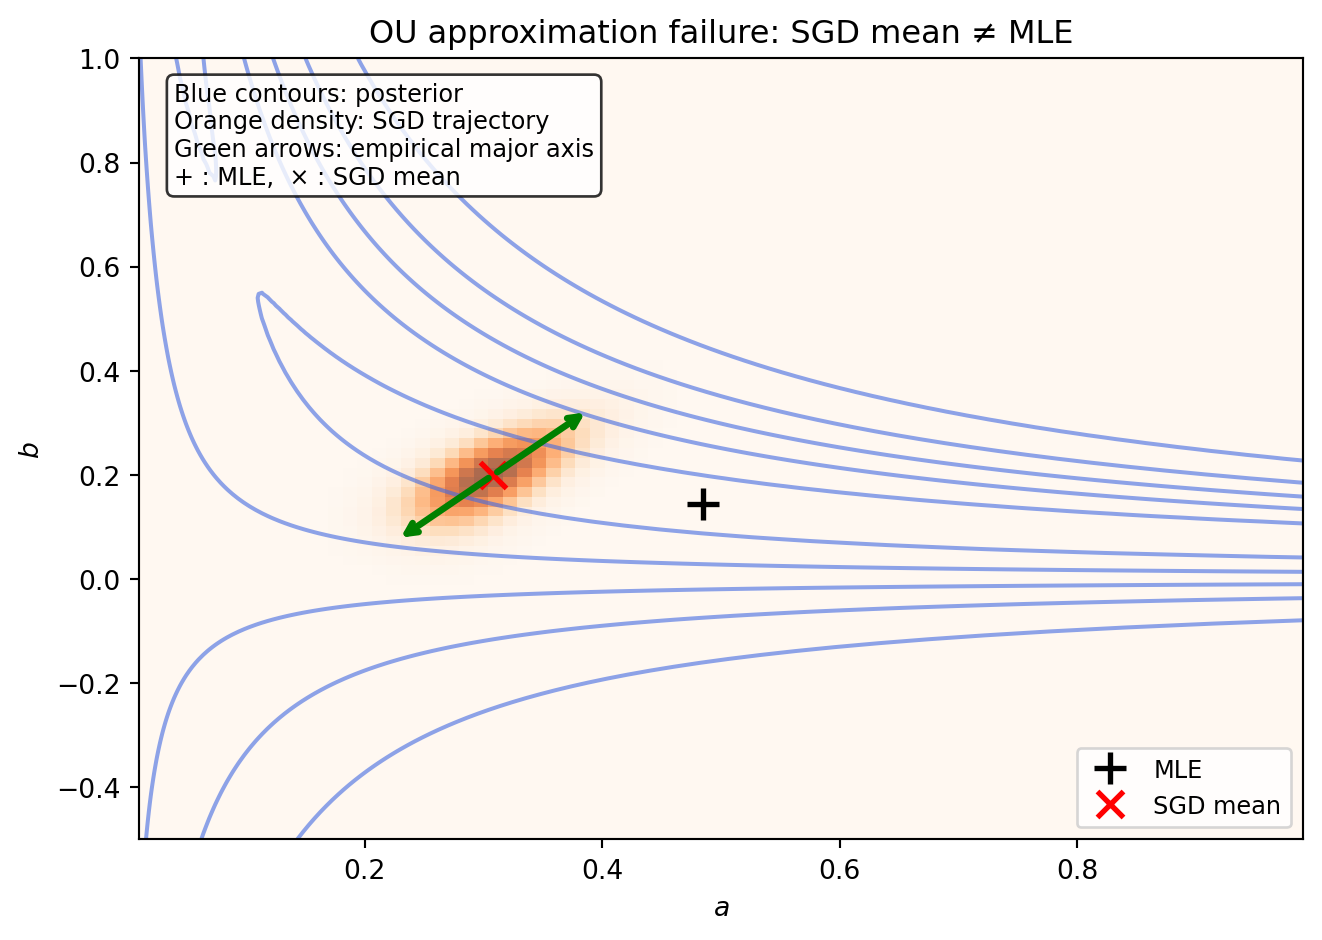
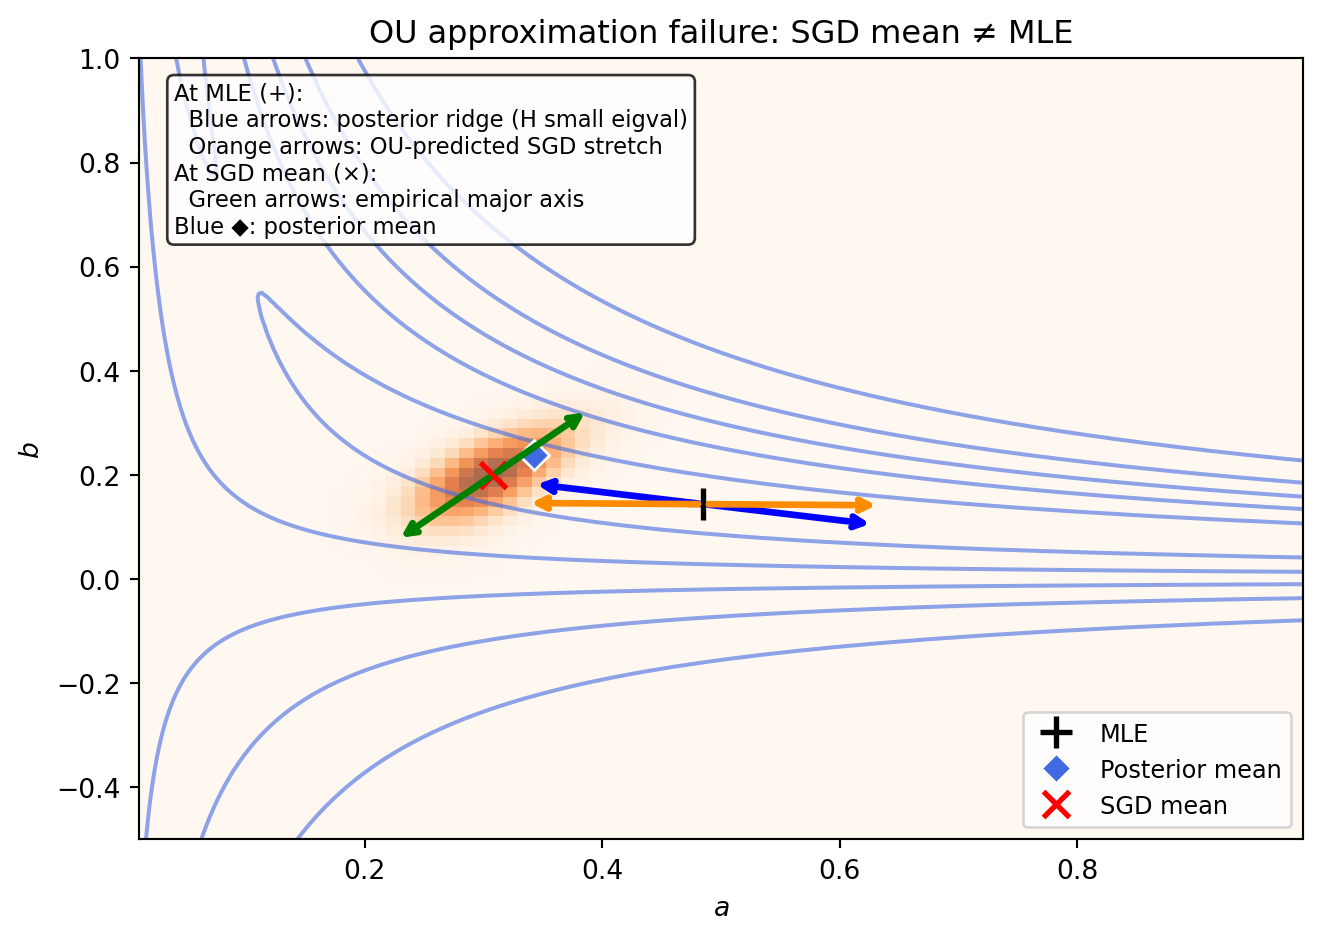
Built site for gh-pages

Changed region(s): [[0.1241, 0.0617, 0.5272, 0.2777], [0.7753, 0.7404, 0.9924, 0.8947], [0.3722, 0.4628, 0.6823, 0.5862]]

diff --git a/sgd_and_posterior.html b/sgd_and_posterior.html
@@ -7,7 +7,7 @@
 <meta name="viewport" content="width=device-width, initial-scale=1.0, user-scalable=yes">
 
 
-<title>SGD as Approximate Bayesian Inference – Watanabe’s Singular Learning Theory</title>
+<title>Stochastic Gradient Descent Distribution versus Posterior – Watanabe’s Singular Learning Theory</title>
 <style>
 code{white-space: pre-wrap;}
 span.smallcaps{font-variant: small-caps;}
@@ -164,7 +164,7 @@ window.Quarto = {
   </li>  
   <li class="nav-item">
     <a class="nav-link" href="./regular_and_singular_models.html"> 
-<span class="menu-text">Regular and Singular Models</span></a>
+<span class="menu-text">Regular vs Singular</span></a>
   </li>  
   <li class="nav-item">
     <a class="nav-link" href="./slt_gaussian_mixture.html"> 
@@ -172,11 +172,11 @@ window.Quarto = {
   </li>  
   <li class="nav-item">
     <a class="nav-link active" href="./sgd_and_posterior.html" aria-current="page"> 
-<span class="menu-text">SGD as Bayesian Inference</span></a>
+<span class="menu-text">SGD vs Posterior</span></a>
   </li>  
   <li class="nav-item">
     <a class="nav-link" href="./neural_network_figure_2_7.html"> 
-<span class="menu-text">Neural Network (Figure 2.7)</span></a>
+<span class="menu-text">Neural Network</span></a>
   </li>  
 </ul>
           </div> <!-- /navcollapse -->
@@ -223,7 +223,7 @@ window.Quarto = {
 
 <header id="title-block-header" class="quarto-title-block default">
 <div class="quarto-title">
-<h1 class="title">SGD as Approximate Bayesian Inference</h1>
+<h1 class="title">Stochastic Gradient Descent Distribution versus Posterior</h1>
 </div>
 
 
@@ -700,35 +700,61 @@ Figure&nbsp;2: SGD trajectory distribution (orange density) vs exact Bayesian po
 <span id="cb7-85"><a href="#cb7-85" aria-hidden="true" tabindex="-1"></a>ax.imshow(hist, origin<span class="op">=</span><span class="st">'lower'</span>, extent<span class="op">=</span>[<span class="fl">0.01</span>, <span class="fl">0.99</span>, <span class="op">-</span><span class="fl">0.5</span>, <span class="fl">1.0</span>],</span>
 <span id="cb7-86"><a href="#cb7-86" aria-hidden="true" tabindex="-1"></a>          aspect<span class="op">=</span><span class="st">'auto'</span>, cmap<span class="op">=</span><span class="st">'Oranges'</span>, alpha<span class="op">=</span><span class="fl">0.7</span>)</span>
 <span id="cb7-87"><a href="#cb7-87" aria-hidden="true" tabindex="-1"></a></span>
-<span id="cb7-88"><a href="#cb7-88" aria-hidden="true" tabindex="-1"></a><span class="co"># Mark MLE and SGD mean</span></span>
-<span id="cb7-89"><a href="#cb7-89" aria-hidden="true" tabindex="-1"></a>ax.plot(a_mle, b_mle, <span class="st">'k+'</span>, markersize<span class="op">=</span><span class="dv">12</span>, markeredgewidth<span class="op">=</span><span class="dv">2</span>, label<span class="op">=</span><span class="st">'MLE'</span>)</span>
-<span id="cb7-90"><a href="#cb7-90" aria-hidden="true" tabindex="-1"></a>ax.plot(sgd_mean[<span class="dv">0</span>], sgd_mean[<span class="dv">1</span>], <span class="st">'rx'</span>, markersize<span class="op">=</span><span class="dv">10</span>, markeredgewidth<span class="op">=</span><span class="dv">2</span>,</span>
-<span id="cb7-91"><a href="#cb7-91" aria-hidden="true" tabindex="-1"></a>        label<span class="op">=</span><span class="st">'SGD mean'</span>)</span>
-<span id="cb7-92"><a href="#cb7-92" aria-hidden="true" tabindex="-1"></a></span>
-<span id="cb7-93"><a href="#cb7-93" aria-hidden="true" tabindex="-1"></a><span class="co"># Draw eigenvector arrows from the SGD mean</span></span>
-<span id="cb7-94"><a href="#cb7-94" aria-hidden="true" tabindex="-1"></a>scale <span class="op">=</span> <span class="fl">0.15</span></span>
-<span id="cb7-95"><a href="#cb7-95" aria-hidden="true" tabindex="-1"></a><span class="co"># Empirical major axis</span></span>
-<span id="cb7-96"><a href="#cb7-96" aria-hidden="true" tabindex="-1"></a>v <span class="op">=</span> evecs_emp[:, <span class="dv">1</span>]</span>
-<span id="cb7-97"><a href="#cb7-97" aria-hidden="true" tabindex="-1"></a>ax.annotate(<span class="st">''</span>, xy<span class="op">=</span>(sgd_mean[<span class="dv">0</span>]<span class="op">+</span>scale<span class="op">*</span>v[<span class="dv">0</span>], sgd_mean[<span class="dv">1</span>]<span class="op">+</span>scale<span class="op">*</span>v[<span class="dv">1</span>]),</span>
-<span id="cb7-98"><a href="#cb7-98" aria-hidden="true" tabindex="-1"></a>            xytext<span class="op">=</span>(sgd_mean[<span class="dv">0</span>], sgd_mean[<span class="dv">1</span>]),</span>
-<span id="cb7-99"><a href="#cb7-99" aria-hidden="true" tabindex="-1"></a>            arrowprops<span class="op">=</span><span class="bu">dict</span>(arrowstyle<span class="op">=</span><span class="st">'-&gt;'</span>, color<span class="op">=</span><span class="st">'green'</span>, lw<span class="op">=</span><span class="fl">2.5</span>))</span>
-<span id="cb7-100"><a href="#cb7-100" aria-hidden="true" tabindex="-1"></a>ax.annotate(<span class="st">''</span>, xy<span class="op">=</span>(sgd_mean[<span class="dv">0</span>]<span class="op">-</span>scale<span class="op">*</span>v[<span class="dv">0</span>], sgd_mean[<span class="dv">1</span>]<span class="op">-</span>scale<span class="op">*</span>v[<span class="dv">1</span>]),</span>
-<span id="cb7-101"><a href="#cb7-101" aria-hidden="true" tabindex="-1"></a>            xytext<span class="op">=</span>(sgd_mean[<span class="dv">0</span>], sgd_mean[<span class="dv">1</span>]),</span>
-<span id="cb7-102"><a href="#cb7-102" aria-hidden="true" tabindex="-1"></a>            arrowprops<span class="op">=</span><span class="bu">dict</span>(arrowstyle<span class="op">=</span><span class="st">'-&gt;'</span>, color<span class="op">=</span><span class="st">'green'</span>, lw<span class="op">=</span><span class="fl">2.5</span>))</span>
-<span id="cb7-103"><a href="#cb7-103" aria-hidden="true" tabindex="-1"></a></span>
-<span id="cb7-104"><a href="#cb7-104" aria-hidden="true" tabindex="-1"></a>ax.text(<span class="fl">0.03</span>, <span class="fl">0.97</span>, <span class="st">'Blue contours: posterior</span><span class="ch">\n</span><span class="st">'</span></span>
-<span id="cb7-105"><a href="#cb7-105" aria-hidden="true" tabindex="-1"></a>        <span class="st">'Orange density: SGD trajectory</span><span class="ch">\n</span><span class="st">'</span></span>
-<span id="cb7-106"><a href="#cb7-106" aria-hidden="true" tabindex="-1"></a>        <span class="st">'Green arrows: empirical major axis</span><span class="ch">\n</span><span class="st">'</span></span>
-<span id="cb7-107"><a href="#cb7-107" aria-hidden="true" tabindex="-1"></a>        <span class="st">'+ : MLE,  × : SGD mean'</span>,</span>
-<span id="cb7-108"><a href="#cb7-108" aria-hidden="true" tabindex="-1"></a>        transform<span class="op">=</span>ax.transAxes, fontsize<span class="op">=</span><span class="dv">9</span>, va<span class="op">=</span><span class="st">'top'</span>,</span>
-<span id="cb7-109"><a href="#cb7-109" aria-hidden="true" tabindex="-1"></a>        bbox<span class="op">=</span><span class="bu">dict</span>(boxstyle<span class="op">=</span><span class="st">'round'</span>, facecolor<span class="op">=</span><span class="st">'white'</span>, alpha<span class="op">=</span><span class="fl">0.8</span>))</span>
-<span id="cb7-110"><a href="#cb7-110" aria-hidden="true" tabindex="-1"></a></span>
-<span id="cb7-111"><a href="#cb7-111" aria-hidden="true" tabindex="-1"></a>ax.legend(loc<span class="op">=</span><span class="st">'lower right'</span>, fontsize<span class="op">=</span><span class="dv">9</span>)</span>
-<span id="cb7-112"><a href="#cb7-112" aria-hidden="true" tabindex="-1"></a>ax.set_xlabel(<span class="st">'$a$'</span>)</span>
-<span id="cb7-113"><a href="#cb7-113" aria-hidden="true" tabindex="-1"></a>ax.set_ylabel(<span class="st">'$b$'</span>)</span>
-<span id="cb7-114"><a href="#cb7-114" aria-hidden="true" tabindex="-1"></a>ax.set_title(<span class="st">'OU approximation failure: SGD mean ≠ MLE'</span>)</span>
-<span id="cb7-115"><a href="#cb7-115" aria-hidden="true" tabindex="-1"></a>plt.tight_layout()</span>
-<span id="cb7-116"><a href="#cb7-116" aria-hidden="true" tabindex="-1"></a>plt.show()</span></code></pre></div><button title="Copy to Clipboard" class="code-copy-button"><i class="bi"></i></button></div>
+<span id="cb7-88"><a href="#cb7-88" aria-hidden="true" tabindex="-1"></a><span class="co"># Posterior mean from grid</span></span>
+<span id="cb7-89"><a href="#cb7-89" aria-hidden="true" tabindex="-1"></a>da2 <span class="op">=</span> a_grid2[<span class="dv">1</span>] <span class="op">-</span> a_grid2[<span class="dv">0</span>]</span>
+<span id="cb7-90"><a href="#cb7-90" aria-hidden="true" tabindex="-1"></a>db2 <span class="op">=</span> b_grid2[<span class="dv">1</span>] <span class="op">-</span> b_grid2[<span class="dv">0</span>]</span>
+<span id="cb7-91"><a href="#cb7-91" aria-hidden="true" tabindex="-1"></a>norm <span class="op">=</span> np.<span class="bu">sum</span>(posterior2) <span class="op">*</span> da2 <span class="op">*</span> db2</span>
+<span id="cb7-92"><a href="#cb7-92" aria-hidden="true" tabindex="-1"></a>post_mean_a <span class="op">=</span> np.<span class="bu">sum</span>(A_grid2 <span class="op">*</span> posterior2) <span class="op">*</span> da2 <span class="op">*</span> db2 <span class="op">/</span> norm</span>
+<span id="cb7-93"><a href="#cb7-93" aria-hidden="true" tabindex="-1"></a>post_mean_b <span class="op">=</span> np.<span class="bu">sum</span>(B_grid2 <span class="op">*</span> posterior2) <span class="op">*</span> da2 <span class="op">*</span> db2 <span class="op">/</span> norm</span>
+<span id="cb7-94"><a href="#cb7-94" aria-hidden="true" tabindex="-1"></a><span class="bu">print</span>(<span class="ss">f"</span><span class="ch">\n</span><span class="ss">Posterior mean: a = </span><span class="sc">{</span>post_mean_a<span class="sc">:.4f}</span><span class="ss">,  b = </span><span class="sc">{</span>post_mean_b<span class="sc">:.4f}</span><span class="ss">"</span>)</span>
+<span id="cb7-95"><a href="#cb7-95" aria-hidden="true" tabindex="-1"></a></span>
+<span id="cb7-96"><a href="#cb7-96" aria-hidden="true" tabindex="-1"></a><span class="co"># Mark MLE, posterior mean, and SGD mean</span></span>
+<span id="cb7-97"><a href="#cb7-97" aria-hidden="true" tabindex="-1"></a>ax.plot(a_mle, b_mle, <span class="st">'k+'</span>, markersize<span class="op">=</span><span class="dv">12</span>, markeredgewidth<span class="op">=</span><span class="dv">2</span>, label<span class="op">=</span><span class="st">'MLE'</span>)</span>
+<span id="cb7-98"><a href="#cb7-98" aria-hidden="true" tabindex="-1"></a>ax.plot(post_mean_a, post_mean_b, <span class="st">'D'</span>, color<span class="op">=</span><span class="st">'royalblue'</span>, markersize<span class="op">=</span><span class="dv">8</span>,</span>
+<span id="cb7-99"><a href="#cb7-99" aria-hidden="true" tabindex="-1"></a>        markeredgecolor<span class="op">=</span><span class="st">'white'</span>, markeredgewidth<span class="op">=</span><span class="dv">1</span>, label<span class="op">=</span><span class="st">'Posterior mean'</span>)</span>
+<span id="cb7-100"><a href="#cb7-100" aria-hidden="true" tabindex="-1"></a>ax.plot(sgd_mean[<span class="dv">0</span>], sgd_mean[<span class="dv">1</span>], <span class="st">'rx'</span>, markersize<span class="op">=</span><span class="dv">10</span>, markeredgewidth<span class="op">=</span><span class="dv">2</span>,</span>
+<span id="cb7-101"><a href="#cb7-101" aria-hidden="true" tabindex="-1"></a>        label<span class="op">=</span><span class="st">'SGD mean'</span>)</span>
+<span id="cb7-102"><a href="#cb7-102" aria-hidden="true" tabindex="-1"></a></span>
+<span id="cb7-103"><a href="#cb7-103" aria-hidden="true" tabindex="-1"></a><span class="co"># Draw eigenvector arrows</span></span>
+<span id="cb7-104"><a href="#cb7-104" aria-hidden="true" tabindex="-1"></a>scale <span class="op">=</span> <span class="fl">0.15</span></span>
+<span id="cb7-105"><a href="#cb7-105" aria-hidden="true" tabindex="-1"></a></span>
+<span id="cb7-106"><a href="#cb7-106" aria-hidden="true" tabindex="-1"></a><span class="co"># At MLE: H small-eigenvalue direction (posterior ridge) in blue</span></span>
+<span id="cb7-107"><a href="#cb7-107" aria-hidden="true" tabindex="-1"></a>evals_Hm, evecs_Hm <span class="op">=</span> np.linalg.eigh(H_mle)</span>
+<span id="cb7-108"><a href="#cb7-108" aria-hidden="true" tabindex="-1"></a>v_post <span class="op">=</span> evecs_Hm[:, <span class="dv">0</span>]  <span class="co"># small eigenvalue = flat/ridge direction</span></span>
+<span id="cb7-109"><a href="#cb7-109" aria-hidden="true" tabindex="-1"></a><span class="cf">for</span> sign <span class="kw">in</span> [<span class="dv">1</span>, <span class="op">-</span><span class="dv">1</span>]:</span>
+<span id="cb7-110"><a href="#cb7-110" aria-hidden="true" tabindex="-1"></a>    ax.annotate(<span class="st">''</span>, xy<span class="op">=</span>(a_mle <span class="op">+</span> sign<span class="op">*</span>scale<span class="op">*</span>v_post[<span class="dv">0</span>], b_mle <span class="op">+</span> sign<span class="op">*</span>scale<span class="op">*</span>v_post[<span class="dv">1</span>]),</span>
+<span id="cb7-111"><a href="#cb7-111" aria-hidden="true" tabindex="-1"></a>                xytext<span class="op">=</span>(a_mle, b_mle),</span>
+<span id="cb7-112"><a href="#cb7-112" aria-hidden="true" tabindex="-1"></a>                arrowprops<span class="op">=</span><span class="bu">dict</span>(arrowstyle<span class="op">=</span><span class="st">'-&gt;'</span>, color<span class="op">=</span><span class="st">'blue'</span>, lw<span class="op">=</span><span class="fl">2.5</span>))</span>
+<span id="cb7-113"><a href="#cb7-113" aria-hidden="true" tabindex="-1"></a></span>
+<span id="cb7-114"><a href="#cb7-114" aria-hidden="true" tabindex="-1"></a><span class="co"># At MLE: OU-predicted Σ large-eigenvalue direction in orange</span></span>
+<span id="cb7-115"><a href="#cb7-115" aria-hidden="true" tabindex="-1"></a>v_ou <span class="op">=</span> evecs_mle[:, <span class="dv">1</span>]  <span class="co"># large eigenvalue = predicted SGD stretch</span></span>
+<span id="cb7-116"><a href="#cb7-116" aria-hidden="true" tabindex="-1"></a><span class="cf">for</span> sign <span class="kw">in</span> [<span class="dv">1</span>, <span class="op">-</span><span class="dv">1</span>]:</span>
+<span id="cb7-117"><a href="#cb7-117" aria-hidden="true" tabindex="-1"></a>    ax.annotate(<span class="st">''</span>, xy<span class="op">=</span>(a_mle <span class="op">+</span> sign<span class="op">*</span>scale<span class="op">*</span>v_ou[<span class="dv">0</span>], b_mle <span class="op">+</span> sign<span class="op">*</span>scale<span class="op">*</span>v_ou[<span class="dv">1</span>]),</span>
+<span id="cb7-118"><a href="#cb7-118" aria-hidden="true" tabindex="-1"></a>                xytext<span class="op">=</span>(a_mle, b_mle),</span>
+<span id="cb7-119"><a href="#cb7-119" aria-hidden="true" tabindex="-1"></a>                arrowprops<span class="op">=</span><span class="bu">dict</span>(arrowstyle<span class="op">=</span><span class="st">'-&gt;'</span>, color<span class="op">=</span><span class="st">'darkorange'</span>, lw<span class="op">=</span><span class="fl">2.5</span>))</span>
+<span id="cb7-120"><a href="#cb7-120" aria-hidden="true" tabindex="-1"></a></span>
+<span id="cb7-121"><a href="#cb7-121" aria-hidden="true" tabindex="-1"></a><span class="co"># At SGD mean: empirical major axis in green</span></span>
+<span id="cb7-122"><a href="#cb7-122" aria-hidden="true" tabindex="-1"></a>v_emp <span class="op">=</span> evecs_emp[:, <span class="dv">1</span>]</span>
+<span id="cb7-123"><a href="#cb7-123" aria-hidden="true" tabindex="-1"></a><span class="cf">for</span> sign <span class="kw">in</span> [<span class="dv">1</span>, <span class="op">-</span><span class="dv">1</span>]:</span>
+<span id="cb7-124"><a href="#cb7-124" aria-hidden="true" tabindex="-1"></a>    ax.annotate(<span class="st">''</span>, xy<span class="op">=</span>(sgd_mean[<span class="dv">0</span>] <span class="op">+</span> sign<span class="op">*</span>scale<span class="op">*</span>v_emp[<span class="dv">0</span>], sgd_mean[<span class="dv">1</span>] <span class="op">+</span> sign<span class="op">*</span>scale<span class="op">*</span>v_emp[<span class="dv">1</span>]),</span>
+<span id="cb7-125"><a href="#cb7-125" aria-hidden="true" tabindex="-1"></a>                xytext<span class="op">=</span>(sgd_mean[<span class="dv">0</span>], sgd_mean[<span class="dv">1</span>]),</span>
+<span id="cb7-126"><a href="#cb7-126" aria-hidden="true" tabindex="-1"></a>                arrowprops<span class="op">=</span><span class="bu">dict</span>(arrowstyle<span class="op">=</span><span class="st">'-&gt;'</span>, color<span class="op">=</span><span class="st">'green'</span>, lw<span class="op">=</span><span class="fl">2.5</span>))</span>
+<span id="cb7-127"><a href="#cb7-127" aria-hidden="true" tabindex="-1"></a></span>
+<span id="cb7-128"><a href="#cb7-128" aria-hidden="true" tabindex="-1"></a>ax.text(<span class="fl">0.03</span>, <span class="fl">0.97</span>, <span class="st">'At MLE (+):</span><span class="ch">\n</span><span class="st">'</span></span>
+<span id="cb7-129"><a href="#cb7-129" aria-hidden="true" tabindex="-1"></a>        <span class="st">'  Blue arrows: posterior ridge (H small eigval)</span><span class="ch">\n</span><span class="st">'</span></span>
+<span id="cb7-130"><a href="#cb7-130" aria-hidden="true" tabindex="-1"></a>        <span class="st">'  Orange arrows: OU-predicted SGD stretch</span><span class="ch">\n</span><span class="st">'</span></span>
+<span id="cb7-131"><a href="#cb7-131" aria-hidden="true" tabindex="-1"></a>        <span class="st">'At SGD mean (×):</span><span class="ch">\n</span><span class="st">'</span></span>
+<span id="cb7-132"><a href="#cb7-132" aria-hidden="true" tabindex="-1"></a>        <span class="st">'  Green arrows: empirical major axis</span><span class="ch">\n</span><span class="st">'</span></span>
+<span id="cb7-133"><a href="#cb7-133" aria-hidden="true" tabindex="-1"></a>        <span class="st">'Blue ◆: posterior mean'</span>,</span>
+<span id="cb7-134"><a href="#cb7-134" aria-hidden="true" tabindex="-1"></a>        transform<span class="op">=</span>ax.transAxes, fontsize<span class="op">=</span><span class="fl">8.5</span>, va<span class="op">=</span><span class="st">'top'</span>,</span>
+<span id="cb7-135"><a href="#cb7-135" aria-hidden="true" tabindex="-1"></a>        bbox<span class="op">=</span><span class="bu">dict</span>(boxstyle<span class="op">=</span><span class="st">'round'</span>, facecolor<span class="op">=</span><span class="st">'white'</span>, alpha<span class="op">=</span><span class="fl">0.8</span>))</span>
+<span id="cb7-136"><a href="#cb7-136" aria-hidden="true" tabindex="-1"></a></span>
+<span id="cb7-137"><a href="#cb7-137" aria-hidden="true" tabindex="-1"></a>ax.legend(loc<span class="op">=</span><span class="st">'lower right'</span>, fontsize<span class="op">=</span><span class="dv">9</span>)</span>
+<span id="cb7-138"><a href="#cb7-138" aria-hidden="true" tabindex="-1"></a>ax.set_xlabel(<span class="st">'$a$'</span>)</span>
+<span id="cb7-139"><a href="#cb7-139" aria-hidden="true" tabindex="-1"></a>ax.set_ylabel(<span class="st">'$b$'</span>)</span>
+<span id="cb7-140"><a href="#cb7-140" aria-hidden="true" tabindex="-1"></a>ax.set_title(<span class="st">'OU approximation failure: SGD mean ≠ MLE'</span>)</span>
+<span id="cb7-141"><a href="#cb7-141" aria-hidden="true" tabindex="-1"></a>plt.tight_layout()</span>
+<span id="cb7-142"><a href="#cb7-142" aria-hidden="true" tabindex="-1"></a>plt.show()</span></code></pre></div><button title="Copy to Clipboard" class="code-copy-button"><i class="bi"></i></button></div>
 </details>
 <div class="cell-output cell-output-stdout">
 <pre><code>MLE:            a* = 0.4852,  b* = 0.1440
@@ -743,7 +769,9 @@ OU prediction @ MLE:
   major axis angle = 179.2°
 OU prediction @ SGD mean:
   eigenvalues = 0.014830, 0.040280  (ratio 2.7:1)
-  major axis angle = -152.1°</code></pre>
+  major axis angle = -152.1°
+
+Posterior mean: a = 0.3423,  b = 0.2384</code></pre>
 </div>
 <div class="cell-output cell-output-display">
 <div id="fig-ou-failure" class="quarto-float quarto-figure quarto-figure-center anchored">

diff --git a/index.html b/index.html
@@ -100,7 +100,7 @@ ul.task-list li input[type="checkbox"] {
   </li>  
   <li class="nav-item">
     <a class="nav-link" href="./regular_and_singular_models.html"> 
-<span class="menu-text">Regular and Singular Models</span></a>
+<span class="menu-text">Regular vs Singular</span></a>
   </li>  
   <li class="nav-item">
     <a class="nav-link" href="./slt_gaussian_mixture.html"> 
@@ -108,11 +108,11 @@ ul.task-list li input[type="checkbox"] {
   </li>  
   <li class="nav-item">
     <a class="nav-link" href="./sgd_and_posterior.html"> 
-<span class="menu-text">SGD as Bayesian Inference</span></a>
+<span class="menu-text">SGD vs Posterior</span></a>
   </li>  
   <li class="nav-item">
     <a class="nav-link" href="./neural_network_figure_2_7.html"> 
-<span class="menu-text">Neural Network (Figure 2.7)</span></a>
+<span class="menu-text">Neural Network</span></a>
   </li>  
 </ul>
           </div> <!-- /navcollapse -->
@@ -164,6 +164,7 @@ ul.task-list li input[type="checkbox"] {
 <li><a href="./cheat_sheet.html">Cheat Sheet: Important Definitions and Relations</a></li>
 <li><a href="./regular_and_singular_models.html">Regular and Singular Models (Reproducing Figures 1.2 to 1.5)</a></li>
 <li><a href="./slt_gaussian_mixture.html">Illustrating Watanabe’s Singular Learning Theory with a Gaussian Mixture Model</a></li>
+<li><a href="./sgd_and_posterior.html">Comparing stochastic gradient descent with the posterior distribution</a></li>
 <li><a href="./neural_network_figure_2_7.html">Neural Network (Reproducing Figure 2.7)</a></li>
 </ul>
 

diff --git a/neural_network_figure_2_7.html b/neural_network_figure_2_7.html
@@ -167,7 +167,7 @@ window.Quarto = {
   </li>  
   <li class="nav-item">
     <a class="nav-link" href="./regular_and_singular_models.html"> 
-<span class="menu-text">Regular and Singular Models</span></a>
+<span class="menu-text">Regular vs Singular</span></a>
   </li>  
   <li class="nav-item">
     <a class="nav-link" href="./slt_gaussian_mixture.html"> 
@@ -175,11 +175,11 @@ window.Quarto = {
   </li>  
   <li class="nav-item">
     <a class="nav-link" href="./sgd_and_posterior.html"> 
-<span class="menu-text">SGD as Bayesian Inference</span></a>
+<span class="menu-text">SGD vs Posterior</span></a>
   </li>  
   <li class="nav-item">
     <a class="nav-link active" href="./neural_network_figure_2_7.html" aria-current="page"> 
-<span class="menu-text">Neural Network (Figure 2.7)</span></a>
+<span class="menu-text">Neural Network</span></a>
   </li>  
 </ul>
           </div> <!-- /navcollapse -->

diff --git a/regular_and_singular_models.html b/regular_and_singular_models.html
@@ -164,7 +164,7 @@ window.Quarto = {
   </li>  
   <li class="nav-item">
     <a class="nav-link active" href="./regular_and_singular_models.html" aria-current="page"> 
-<span class="menu-text">Regular and Singular Models</span></a>
+<span class="menu-text">Regular vs Singular</span></a>
   </li>  
   <li class="nav-item">
     <a class="nav-link" href="./slt_gaussian_mixture.html"> 
@@ -172,11 +172,11 @@ window.Quarto = {
   </li>  
   <li class="nav-item">
     <a class="nav-link" href="./sgd_and_posterior.html"> 
-<span class="menu-text">SGD as Bayesian Inference</span></a>
+<span class="menu-text">SGD vs Posterior</span></a>
   </li>  
   <li class="nav-item">
     <a class="nav-link" href="./neural_network_figure_2_7.html"> 
-<span class="menu-text">Neural Network (Figure 2.7)</span></a>
+<span class="menu-text">Neural Network</span></a>
   </li>  
 </ul>
           </div> <!-- /navcollapse -->

diff --git a/slt_gaussian_mixture.html b/slt_gaussian_mixture.html
@@ -167,7 +167,7 @@ window.Quarto = {
   </li>  
   <li class="nav-item">
     <a class="nav-link" href="./regular_and_singular_models.html"> 
-<span class="menu-text">Regular and Singular Models</span></a>
+<span class="menu-text">Regular vs Singular</span></a>
   </li>  
   <li class="nav-item">
     <a class="nav-link active" href="./slt_gaussian_mixture.html" aria-current="page"> 
@@ -175,11 +175,11 @@ window.Quarto = {
   </li>  
   <li class="nav-item">
     <a class="nav-link" href="./sgd_and_posterior.html"> 
-<span class="menu-text">SGD as Bayesian Inference</span></a>
+<span class="menu-text">SGD vs Posterior</span></a>
   </li>  
   <li class="nav-item">
     <a class="nav-link" href="./neural_network_figure_2_7.html"> 
-<span class="menu-text">Neural Network (Figure 2.7)</span></a>
+<span class="menu-text">Neural Network</span></a>
   </li>  
 </ul>
           </div> <!-- /navcollapse -->

diff --git a/cheat_sheet.html b/cheat_sheet.html
@@ -129,7 +129,7 @@ window.Quarto = {
   </li>  
   <li class="nav-item">
     <a class="nav-link" href="./regular_and_singular_models.html"> 
-<span class="menu-text">Regular and Singular Models</span></a>
+<span class="menu-text">Regular vs Singular</span></a>
   </li>  
   <li class="nav-item">
     <a class="nav-link" href="./slt_gaussian_mixture.html"> 
@@ -137,11 +137,11 @@ window.Quarto = {
   </li>  
   <li class="nav-item">
     <a class="nav-link" href="./sgd_and_posterior.html"> 
-<span class="menu-text">SGD as Bayesian Inference</span></a>
+<span class="menu-text">SGD vs Posterior</span></a>
   </li>  
   <li class="nav-item">
     <a class="nav-link" href="./neural_network_figure_2_7.html"> 
-<span class="menu-text">Neural Network (Figure 2.7)</span></a>
+<span class="menu-text">Neural Network</span></a>
   </li>  
 </ul>
           </div> <!-- /navcollapse -->
